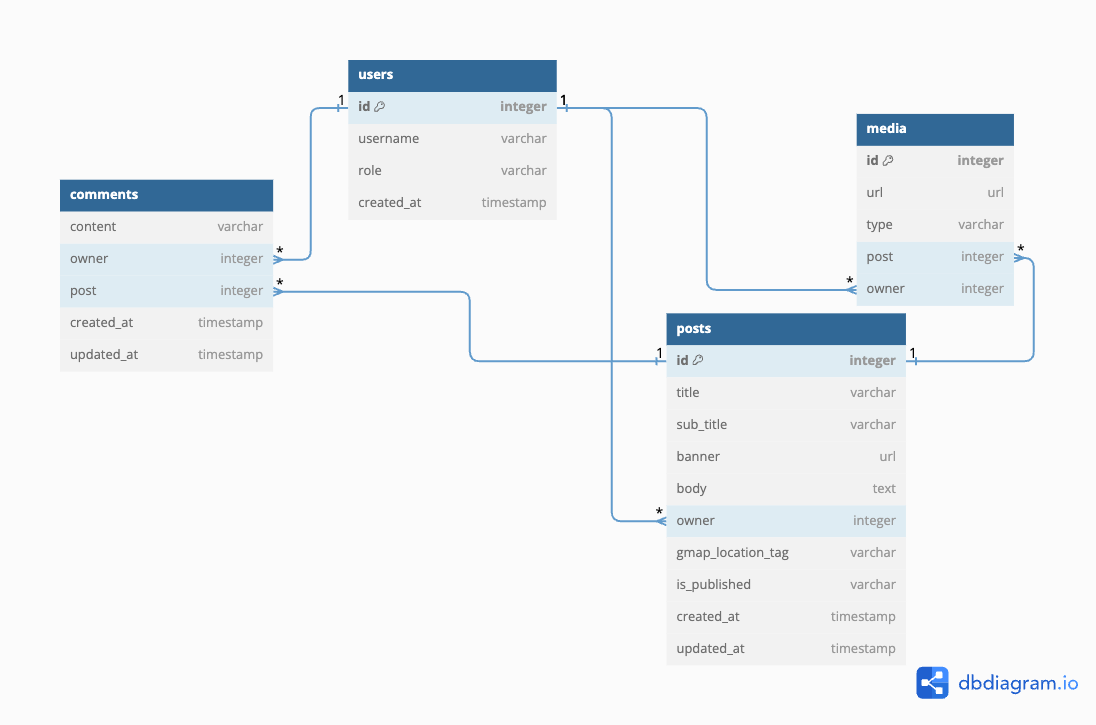
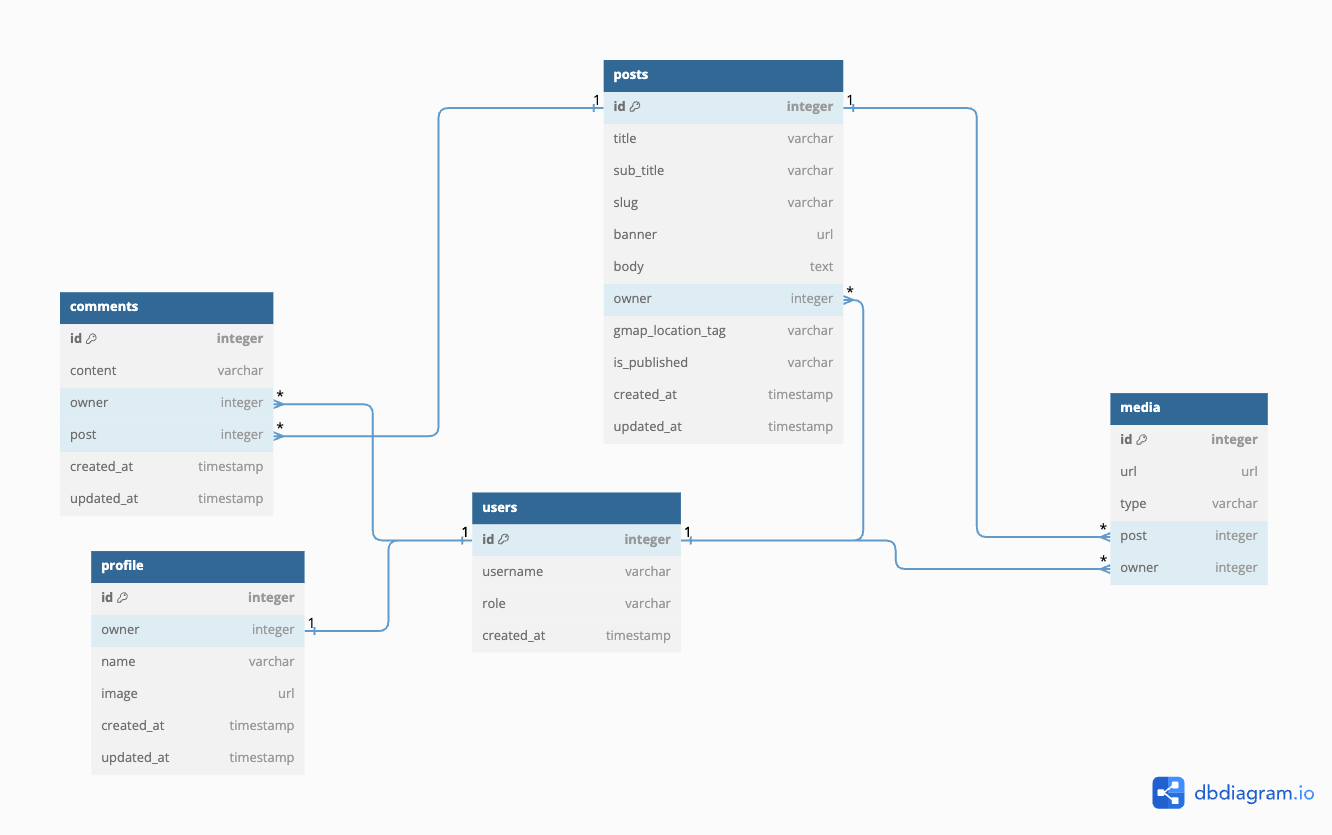
API design

diff --git a/README.md b/README.md
@@ -8,8 +8,13 @@ This section shows the Overall REST API design in a tabular format. This provide
 API design of the service.
 
 ### User profile API
-This section show the user profile API endpoints with the HTTP method, intended operation and the target view in a possible
+This section shows the user profile API endpoints with the HTTP method, intended operation and the target view in a possible
 user interface. Reference: Code Institute [drf-ap](https://github.com/Code-Institute-Solutions/drf-api)
+
+#### Security policy
+- Authenticated users can view and edit their own profile.
+- Authenticated users can only view other user profiles.
+- Any user can view other user profiles
 
 | HTTP   | URI           | Operation            | View    | Comment                     |
 |--------|---------------|----------------------|---------|-----------------------------|
@@ -18,4 +23,33 @@ user interface. Reference: Code Institute [drf-ap](https://github.com/Code-Insti
 | GET    | /profiles/:id | Get profile by id    | Details |                             |
 | PUT    | /profiles/:id | Update profile by id | Details |                             |
 | DELETE | /profiles/:id | Delete profile by id | Details | Admin performs the deletion |
+
+### Posts API
+This section shows the API design for the posts API endpoints with the HTTP methods.
+
+#### Security policy
+- Authenticated users can create new posts and edit or delete their own posts.
+- Any user can view published posts
+
+| HTTP   | URI        | Operation          | View              | Comment |
+|--------|------------|--------------------|-------------------|---------|
+| GET    | /posts     | List all the posts | List              |         |
+| POST   | /posts     | Create a post      | List              |         |
+| GET    | /posts/:id | Get post by id     | Article View,Edit |         |
+| PUT    | /posts/:id | Update post by id  | Edit              |         |
+| DELETE | /posts/:id | Delete post by id  | Edit              |         |
+
+### Comments API
+This section shows the API design for the comments API endpoints with the HTTP methods.
+
+#### Security policy
+- Authenticated users can create new comments for any post and edit or delete their own comments.
+- Any user can view published comments
+
+| HTTP   | URI                     | Operation                        | View         | Comment |
+|--------|-------------------------|----------------------------------|--------------|---------|
+| GET    | /posts/:id/comments     | List all the comments for a post | Article View |         |   
+| POST   | /posts/:id/comments     | Create a comment for a post      | Article View |         |
+| PUT    | /posts/:id/comments/:id | Update a comment of a post       | Article View |         |  
+| DELETE | /posts/:id/comments/:id | Delete a comment of a post       | Article View |         |
 
